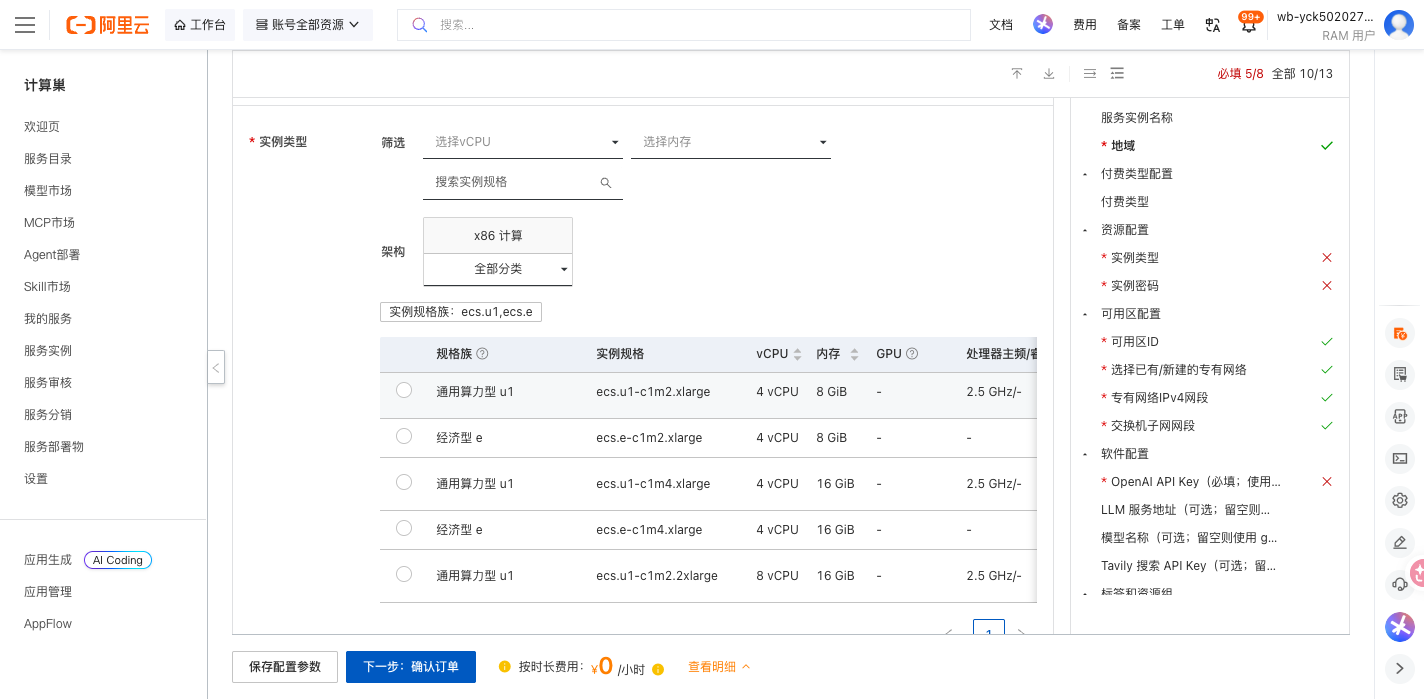
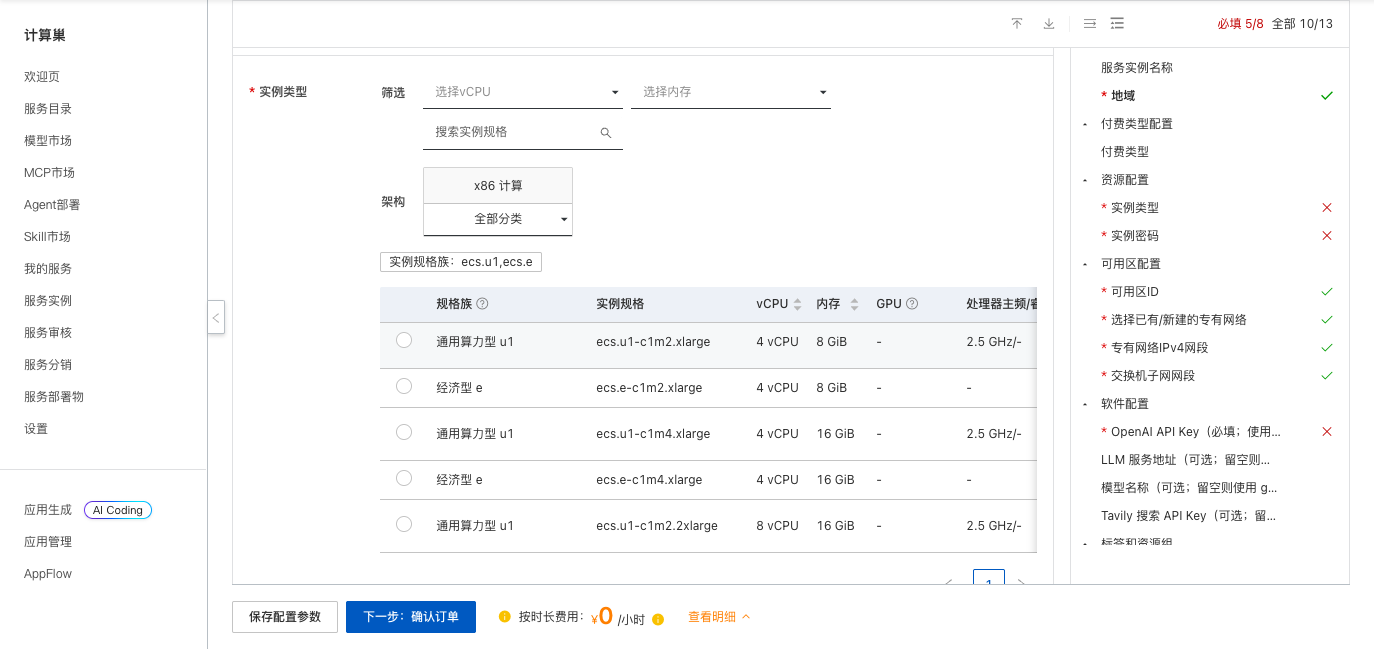
docs: simplify deployment guide and crop console screenshots

diff --git a/docs/deployment-doc.md b/docs/deployment-doc.md
@@ -4,25 +4,6 @@
 
 PraisonAI 是一个开源的多智能体编排框架，提供对话、智能体、技能、记忆、知识库、定时任务和日志等功能。本方案通过 Docker Compose 在一台云服务器 ECS 上部署 PraisonAI Claw 控制台，适合功能体验和开发测试。
 
-## 前提条件
-
-部署 PraisonAI 需要创建 ECS、VPC 和资源编排栈。使用 RAM 用户时，请确保已授予以下权限：
-
-| 权限策略名称 | 说明 |
-| --- | --- |
-| AliyunECSFullAccess | 管理云服务器 ECS |
-| AliyunVPCFullAccess | 管理专有网络 VPC |
-| AliyunROSFullAccess | 管理资源编排 ROS |
-| AliyunComputeNestUserFullAccess | 管理计算巢用户侧资源 |
-
-## 计费说明
-
-部署费用主要来自 ECS 实例、系统盘和公网带宽。创建服务实例时，控制台会根据所选地域、可用区和实例规格显示预估费用，最终费用以实际账单为准。
-
-## 部署架构
-
-计算巢通过 ROS 创建 VPC、交换机、安全组和 ECS 实例，并在 ECS 中以 Docker Compose 运行 PraisonAI。公网访问流量先经过 Nginx Basic Auth，再转发到仅监听实例本机回环地址的 PraisonAI 应用。
-
 ## 部署流程
 
 ### 1. 创建服务实例

diff --git a/docs/index.md b/docs/index.md
@@ -4,25 +4,6 @@
 
 PraisonAI 是一个开源的多智能体编排框架，提供对话、智能体、技能、记忆、知识库、定时任务和日志等功能。本方案通过 Docker Compose 在一台云服务器 ECS 上部署 PraisonAI Claw 控制台，适合功能体验和开发测试。
 
-## 前提条件
-
-部署 PraisonAI 需要创建 ECS、VPC 和资源编排栈。使用 RAM 用户时，请确保已授予以下权限：
-
-| 权限策略名称 | 说明 |
-| --- | --- |
-| AliyunECSFullAccess | 管理云服务器 ECS |
-| AliyunVPCFullAccess | 管理专有网络 VPC |
-| AliyunROSFullAccess | 管理资源编排 ROS |
-| AliyunComputeNestUserFullAccess | 管理计算巢用户侧资源 |
-
-## 计费说明
-
-部署费用主要来自 ECS 实例、系统盘和公网带宽。创建服务实例时，控制台会根据所选地域、可用区和实例规格显示预估费用，最终费用以实际账单为准。
-
-## 部署架构
-
-计算巢通过 ROS 创建 VPC、交换机、安全组和 ECS 实例，并在 ECS 中以 Docker Compose 运行 PraisonAI。公网访问流量先经过 Nginx Basic Auth，再转发到仅监听实例本机回环地址的 PraisonAI 应用。
-
 ## 部署流程
 
 ### 1. 创建服务实例
